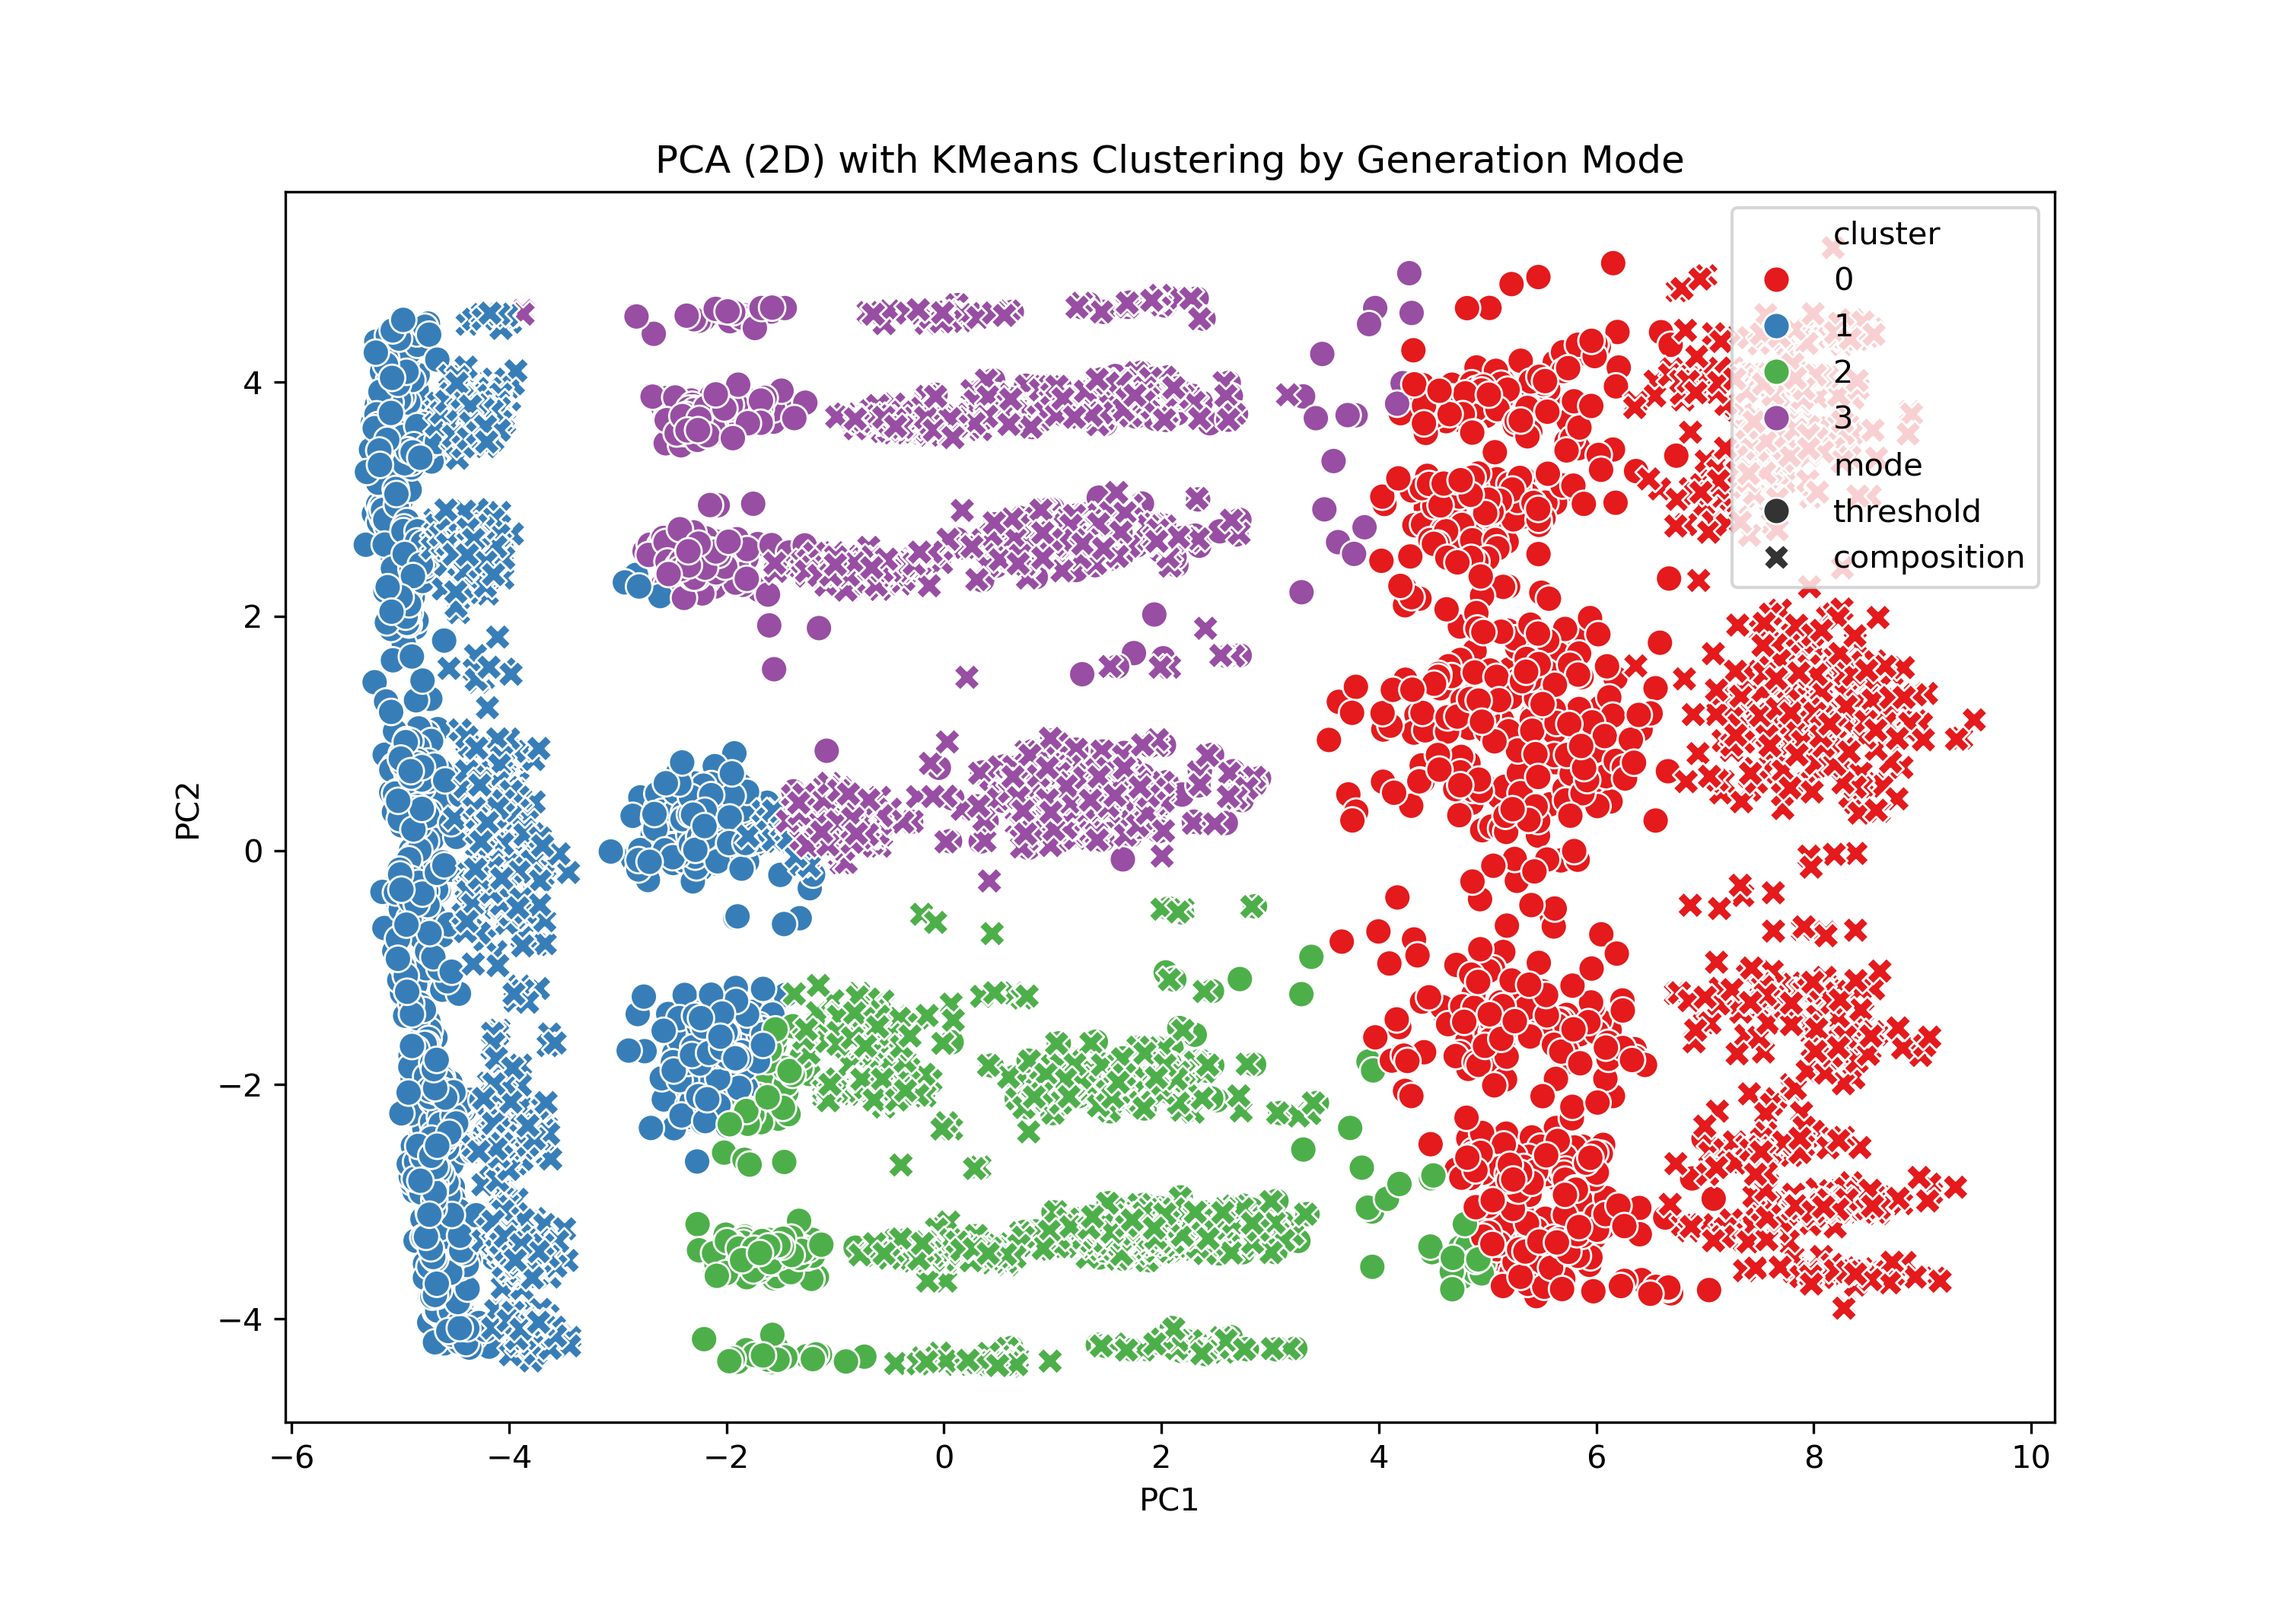
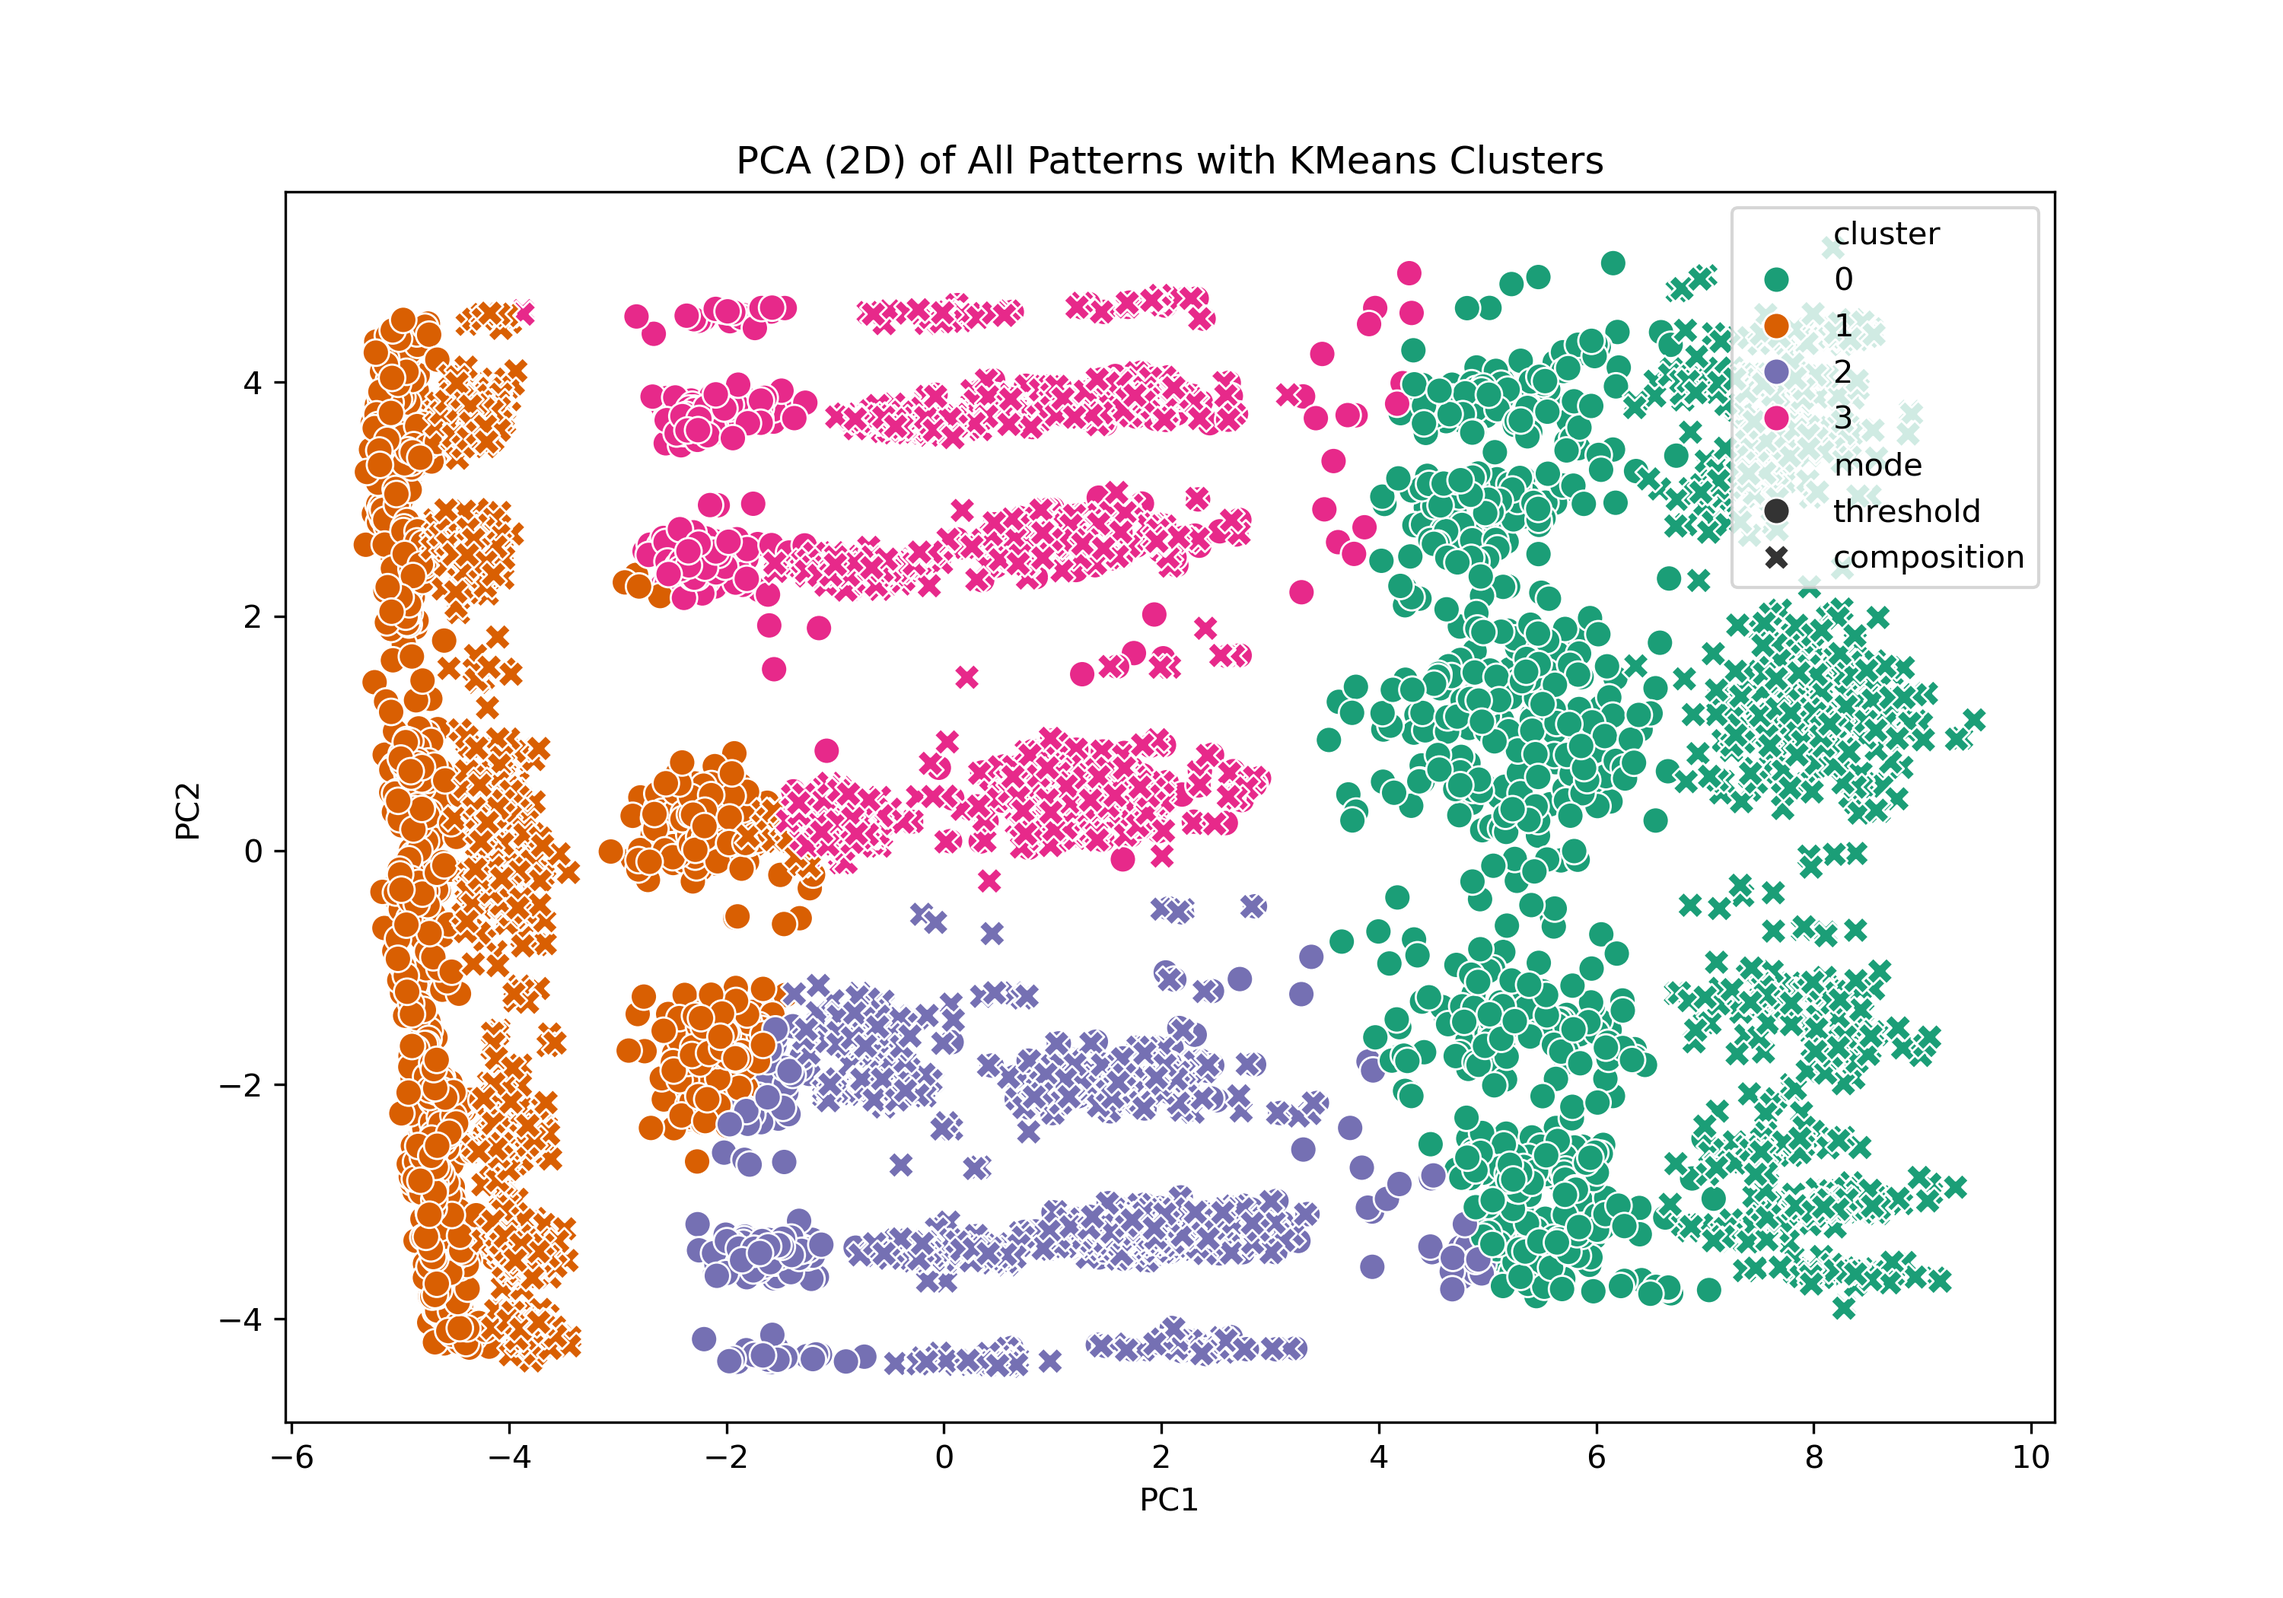
Changed the pca analysis script so the function could be saved just once and load as a lib

Changed region(s): [[0.155, 0.1548, 0.868, 0.8667], [0.279, 0.0929, 0.744, 0.1238]]

diff --git a/pca_analysis.py b/pca_analysis.py
@@ -1,6 +1,7 @@
 import os
 import pandas as pd
 import numpy as np
+import joblib
 import seaborn as sns
 import matplotlib.pyplot as plt
 from sklearn.preprocessing import StandardScaler
@@ -38,38 +39,55 @@ theta = df_all["theta"]
 y_type = df_all["fibro_type"]
 y_mode = df_all["mode"]
 
-# ========== Select reference data for PCA ==========
-df_ref = pd.concat([
-    df_all[
-        (df_all["mode"] == "threshold") &
-        (df_all["fibro_type"] == ftype) &
-        (np.isclose(df_all["density"], ref_density))
-    ]
-    for ftype, ref_density in reference_densities.items()
-], ignore_index=True)
-
-X_ref = df_ref[feature_cols].values
-y_ref_type = df_ref["fibro_type"].values
-theta_ref = df_ref["theta"].values
-
 # ========== Standardize reference features ==========
-scaler = StandardScaler()
-X_ref_scaled = scaler.fit_transform(X_ref)
+# Check if scaler already exists
+if os.path.exists(f"{output_dir}/data/threshold/scaler.pkl"):
+    scaler = joblib.load(f"{output_dir}/data/threshold/scaler.pkl")
+
+else:
+    # ========== Select reference data for PCA ==========
+    df_ref = pd.concat([
+        df_all[
+            (df_all["mode"] == "threshold") &
+            (df_all["fibro_type"] == ftype) &
+            (np.isclose(df_all["density"], ref_density))
+        ]
+        for ftype, ref_density in reference_densities.items()
+    ], ignore_index=True)
+
+    X_ref = df_ref[feature_cols].values
+    y_ref_type = df_ref["fibro_type"].values
+    theta_ref = df_ref["theta"].values
+
+    print("Creating new scaler for reference data.")
+    scaler = StandardScaler()
+    X_ref_scaled = scaler.fit_transform(X_ref)
 
 # ========== PCA from reference data ==========
-pca_2d = PCA(n_components=2)
-X_ref_pca_2d = pca_2d.fit_transform(X_ref_scaled)
+# Check if PCA model already exists
+if os.path.exists(f"{output_dir}/data/threshold/pca_2d.pkl"):
+    pca_2d = joblib.load(f"{output_dir}/data/threshold/pca_2d.pkl")
 
-# Save explained variance
-explained_variance = pca_2d.explained_variance_ratio_
-np.savetxt(f"{output_dir}/data/threshold/explained_variance_ratio.txt", explained_variance, fmt="%.6f")
-print(f"Explained variance ratio (PC1, PC2): {explained_variance}")
+else:
+    print("Creating new PCA model for reference data.")
+    pca_2d = PCA(n_components=2)
+    X_ref_pca_2d = pca_2d.fit_transform(X_ref_scaled)
 
-# Save reference projection
-df_ref_pca_2d = pd.DataFrame(X_ref_pca_2d, columns=["PC1", "PC2"])
-df_ref_pca_2d["fibro_type"] = y_ref_type
-df_ref_pca_2d["theta"] = theta_ref
-df_ref_pca_2d.to_csv(f"{output_dir}/data/threshold/pca_2d_ref.csv", index=False)
+    # ========== Save scaler and PCA model ==========
+    print("Saving scaler and PCA model.")
+    joblib.dump(scaler, f"{output_dir}/data/threshold/scaler.pkl")
+    joblib.dump(pca_2d, f"{output_dir}/data/threshold/pca_2d.pkl")
+
+    # Save explained variance
+    explained_variance = pca_2d.explained_variance_ratio_
+    np.savetxt(f"{output_dir}/data/threshold/explained_variance_ratio.txt", explained_variance, fmt="%.6f")
+    print(f"Explained variance ratio (PC1, PC2): {explained_variance}")
+
+    # Save reference projection
+    df_ref_pca_2d = pd.DataFrame(X_ref_pca_2d, columns=["PC1", "PC2"])
+    df_ref_pca_2d["fibro_type"] = y_ref_type
+    df_ref_pca_2d["theta"] = theta_ref
+    df_ref_pca_2d.to_csv(f"{output_dir}/data/threshold/pca_2d_ref.csv", index=False)
 
 # Project all data using reference PCA
 X_all_scaled = scaler.transform(df_all[feature_cols].values)
@@ -103,27 +121,27 @@ plot_by_theta(df_all_pca_2d[df_all_pca_2d["mode"] == "composition"],
 
 plot_by_theta(df_all_pca_2d,
               "PCA (2D) of All Patterns Colored by Theta",
-              f"{output_dir}/plots/general/pca_2d_theta_all.png")
+              f"{output_dir}/plots/general/pca_2d_theta.png")
 
 # Existing plot by type and generation mode
 plt.figure(figsize=(10, 7))
 sns.scatterplot(data=df_all_pca_2d[df_all_pca_2d["mode"] == "threshold"],
-                x="PC1", y="PC2", hue="fibro_type", palette="Set2", s=70)
+                x="PC1", y="PC2", hue="fibro_type", palette="tab10", s=70)
 plt.title("PCA (2D) of Threshold Fibrosis Patterns by Type")
 plt.savefig(f"{output_dir}/plots/threshold/pca_2d_by_type.png", dpi=300)
 plt.close()
 
 plt.figure(figsize=(10, 7))
 sns.scatterplot(data=df_all_pca_2d[df_all_pca_2d["mode"] == "composition"],
-                x="PC1", y="PC2", hue="fibro_type", palette="Set2", s=70)
+                x="PC1", y="PC2", hue="fibro_type", palette="tab10", s=70)
 plt.title("PCA (2D) of Composition Fibrosis Patterns by Type")
 plt.savefig(f"{output_dir}/plots/composition/pca_2d_by_type.png", dpi=300)
 plt.close()
 
 plt.figure(figsize=(10, 7))
-sns.scatterplot(data=df_all_pca_2d, x="PC1", y="PC2", hue="fibro_type", style="mode", palette="Set2", s=70)
+sns.scatterplot(data=df_all_pca_2d, x="PC1", y="PC2", hue="fibro_type", style="mode", palette="tab10", s=70)
 plt.title("PCA (2D) of All Fibrosis Patterns by Type and Generation Mode")
-plt.savefig(f"{output_dir}/plots/general/pca_2d_all.png", dpi=300)
+plt.savefig(f"{output_dir}/plots/general/pca_2d.png", dpi=300)
 plt.close()
 
 # ========== KMeans Clustering (optional) ==========
@@ -132,8 +150,20 @@ df_all_pca_2d["cluster"] = kmeans.fit_predict(X_all_pca_2d)
 df_all_pca_2d.to_csv(f"{output_dir}/data/general/pca_2d_with_clusters.csv", index=False)
 
 plt.figure(figsize=(10, 7))
-sns.scatterplot(data=df_all_pca_2d, x="PC1", y="PC2", hue="cluster", style="mode", palette="Set1", s=70)
-plt.title("PCA (2D) with KMeans Clustering by Generation Mode")
+sns.scatterplot(data=df_all_pca_2d[df_all_pca_2d["mode"] == "threshold"], x="PC1", y="PC2", hue="cluster", palette="Dark2", s=70)
+plt.title("PCA (2D) of Threshold Patterns with KMeans Clusters")
+plt.savefig(f"{output_dir}/plots/threshold/pca_2d_clusters.png", dpi=300)
+plt.close()
+
+plt.figure(figsize=(10, 7))
+sns.scatterplot(data=df_all_pca_2d[df_all_pca_2d["mode"] == "composition"], x="PC1", y="PC2", hue="cluster", palette="Dark2", s=70)
+plt.title("PCA (2D) of Composition Patterns with KMeans Clusters")
+plt.savefig(f"{output_dir}/plots/composition/pca_2d_clusters.png", dpi=300)
+plt.close()
+
+plt.figure(figsize=(10, 7))
+sns.scatterplot(data=df_all_pca_2d, x="PC1", y="PC2", hue="cluster", style="mode", palette="Dark2", s=70)
+plt.title("PCA (2D) of All Patterns with KMeans Clusters")
 plt.savefig(f"{output_dir}/plots/general/pca_2d_clusters.png", dpi=300)
 plt.close()
 
